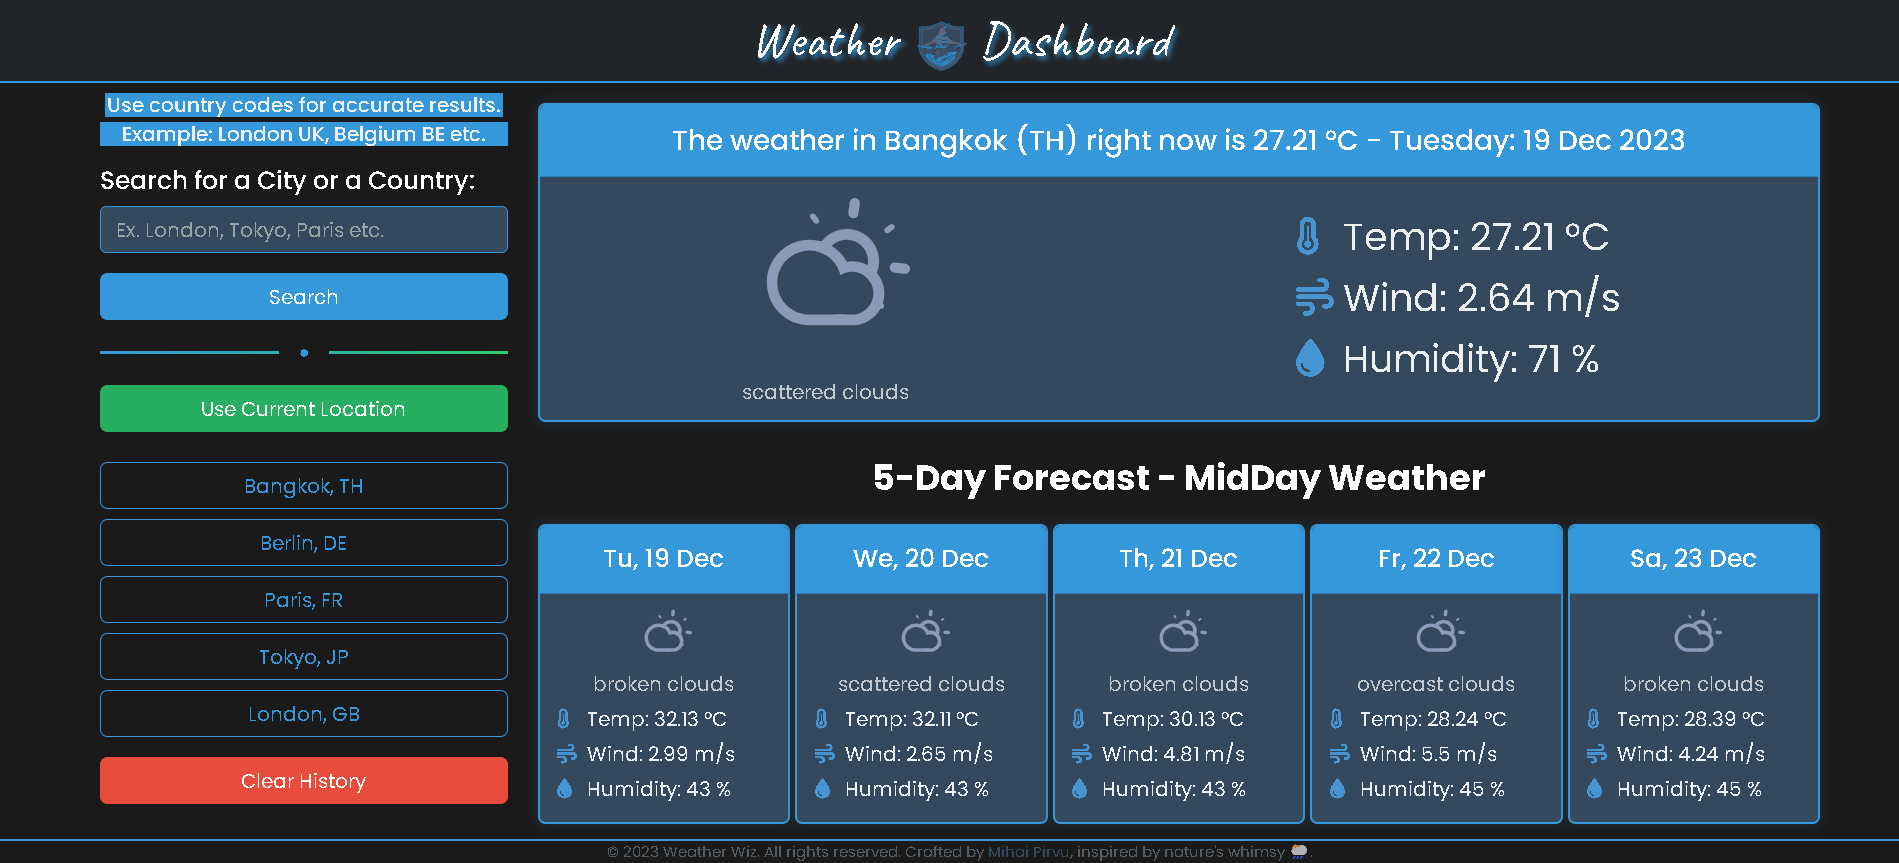
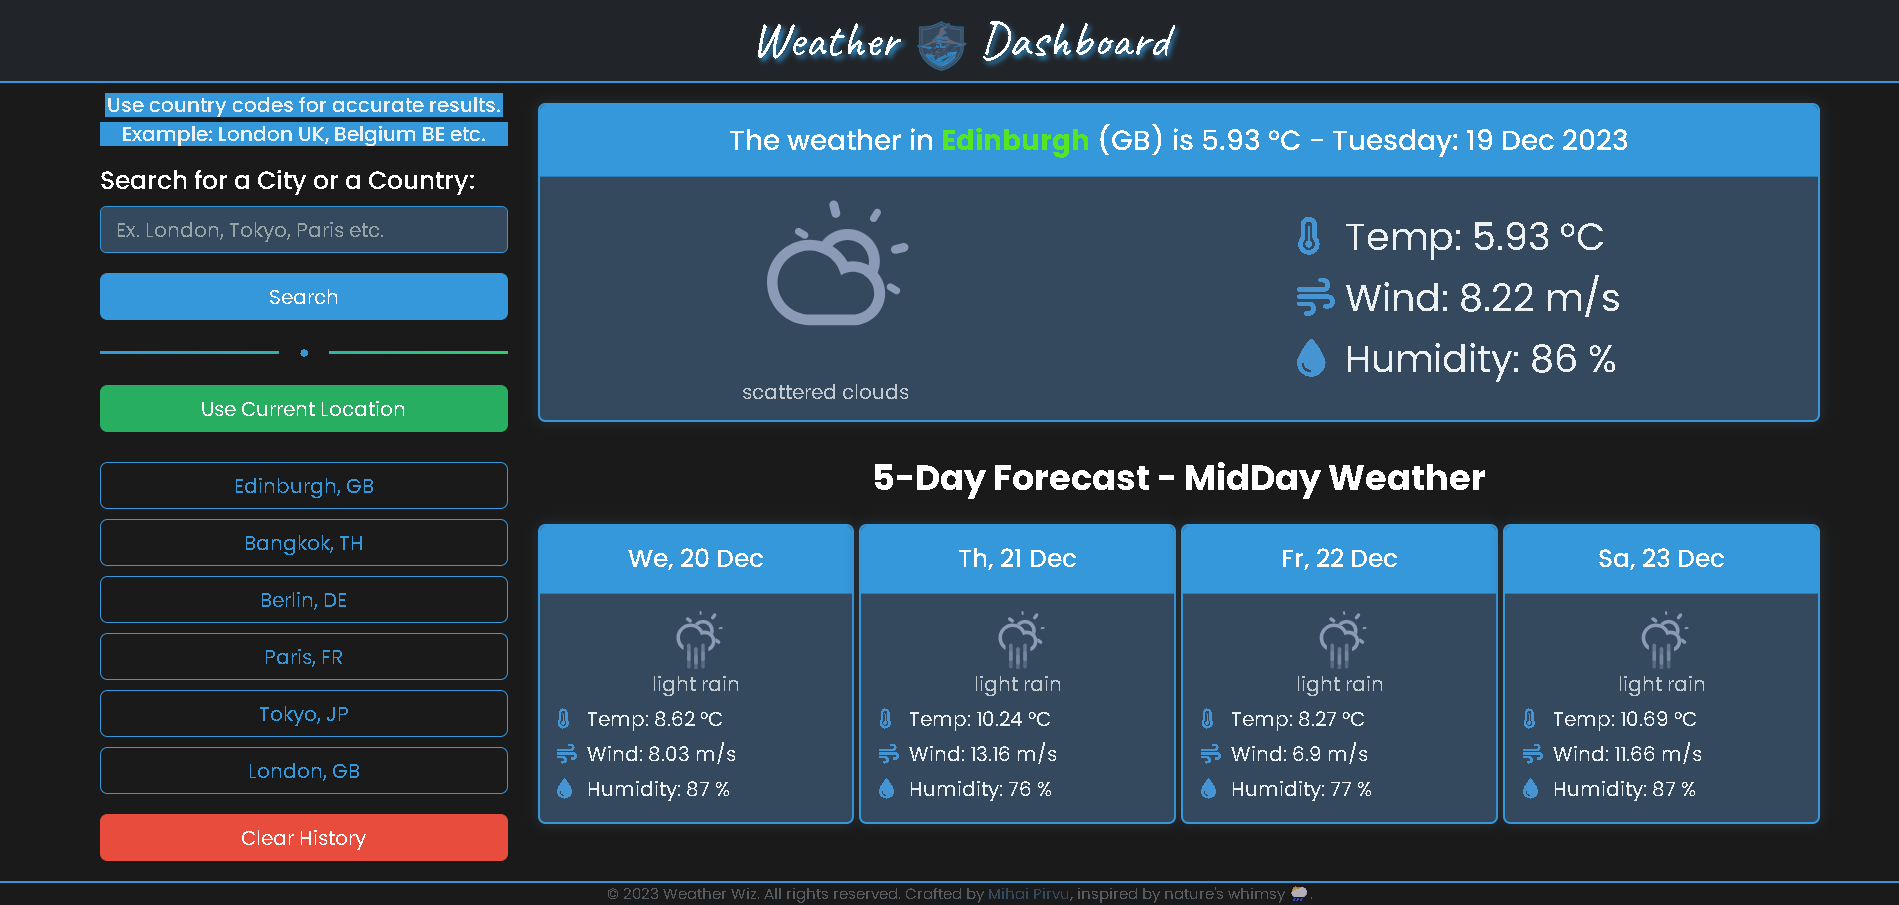
Updated the text for today weather card header

Changed region(s): [[0.0, 0.0301, 1.0, 0.9942]]

diff --git a/scripts/main.js b/scripts/main.js
@@ -79,7 +79,7 @@ function displayWeather(data) {
 
             const weatherCard = createWeatherCard(
                 currentCity,
-                `The weather in ${currentCity} (${currentCountry}) right now is ${temperature} ${TEMPERATURE_UNIT} - ${date}`,
+                `The weather in <span id="city-name">${currentCity}</span> (${currentCountry}) is ${temperature} ${TEMPERATURE_UNIT} - ${date}`,
                 icon,
                 description,
                 temperature,

diff --git a/css/styles.css b/css/styles.css
@@ -155,6 +155,11 @@ body {
   font-size: 1.4em;
 }
 
+#today #city-name {
+  font-weight: 900;
+  color: #53e622;
+}
+
 #today .card-body {
   display: flex;
   align-items: center;
